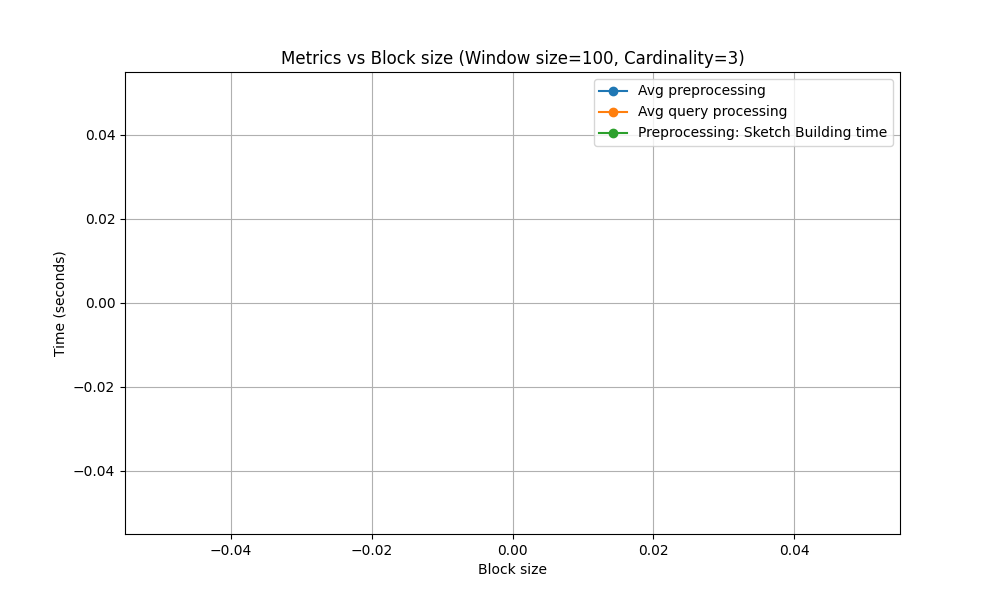
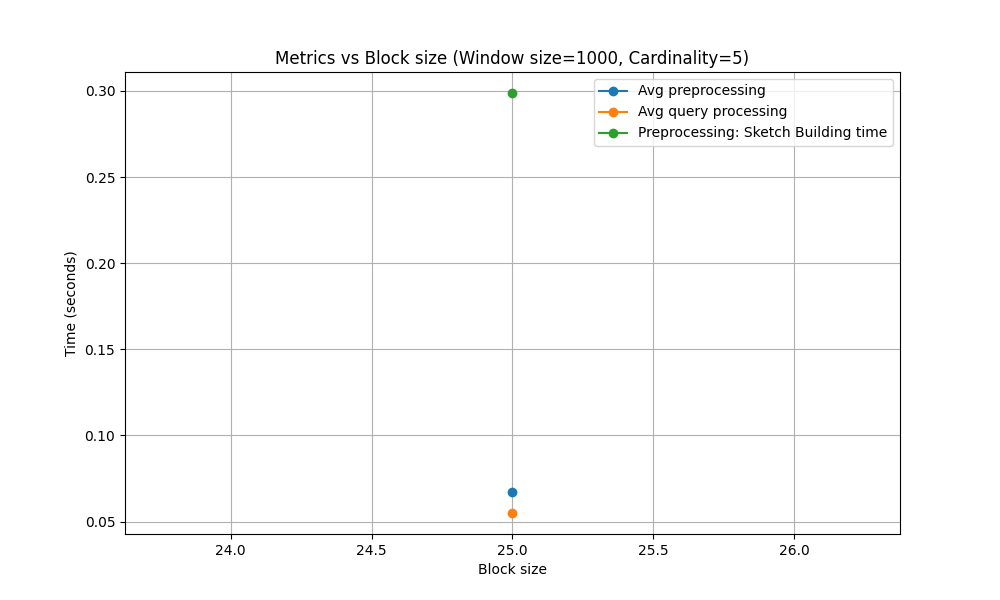
ignored output tweets

diff --git a/run_plotter.py b/run_plotter.py
@@ -1,9 +1,9 @@
 import subprocess
 import time
 
-window_size = 100
-block_size = 10
-cardinality = 3
+window_size = 1000
+block_size = 25
+cardinality = 5
 metric_file = "metric_GENDER10005.csv"
 
 command = [f'python graph_plotter.py --window_size={window_size} --block_size={block_size} --cardinality={cardinality} --metric_file={metric_file}']
